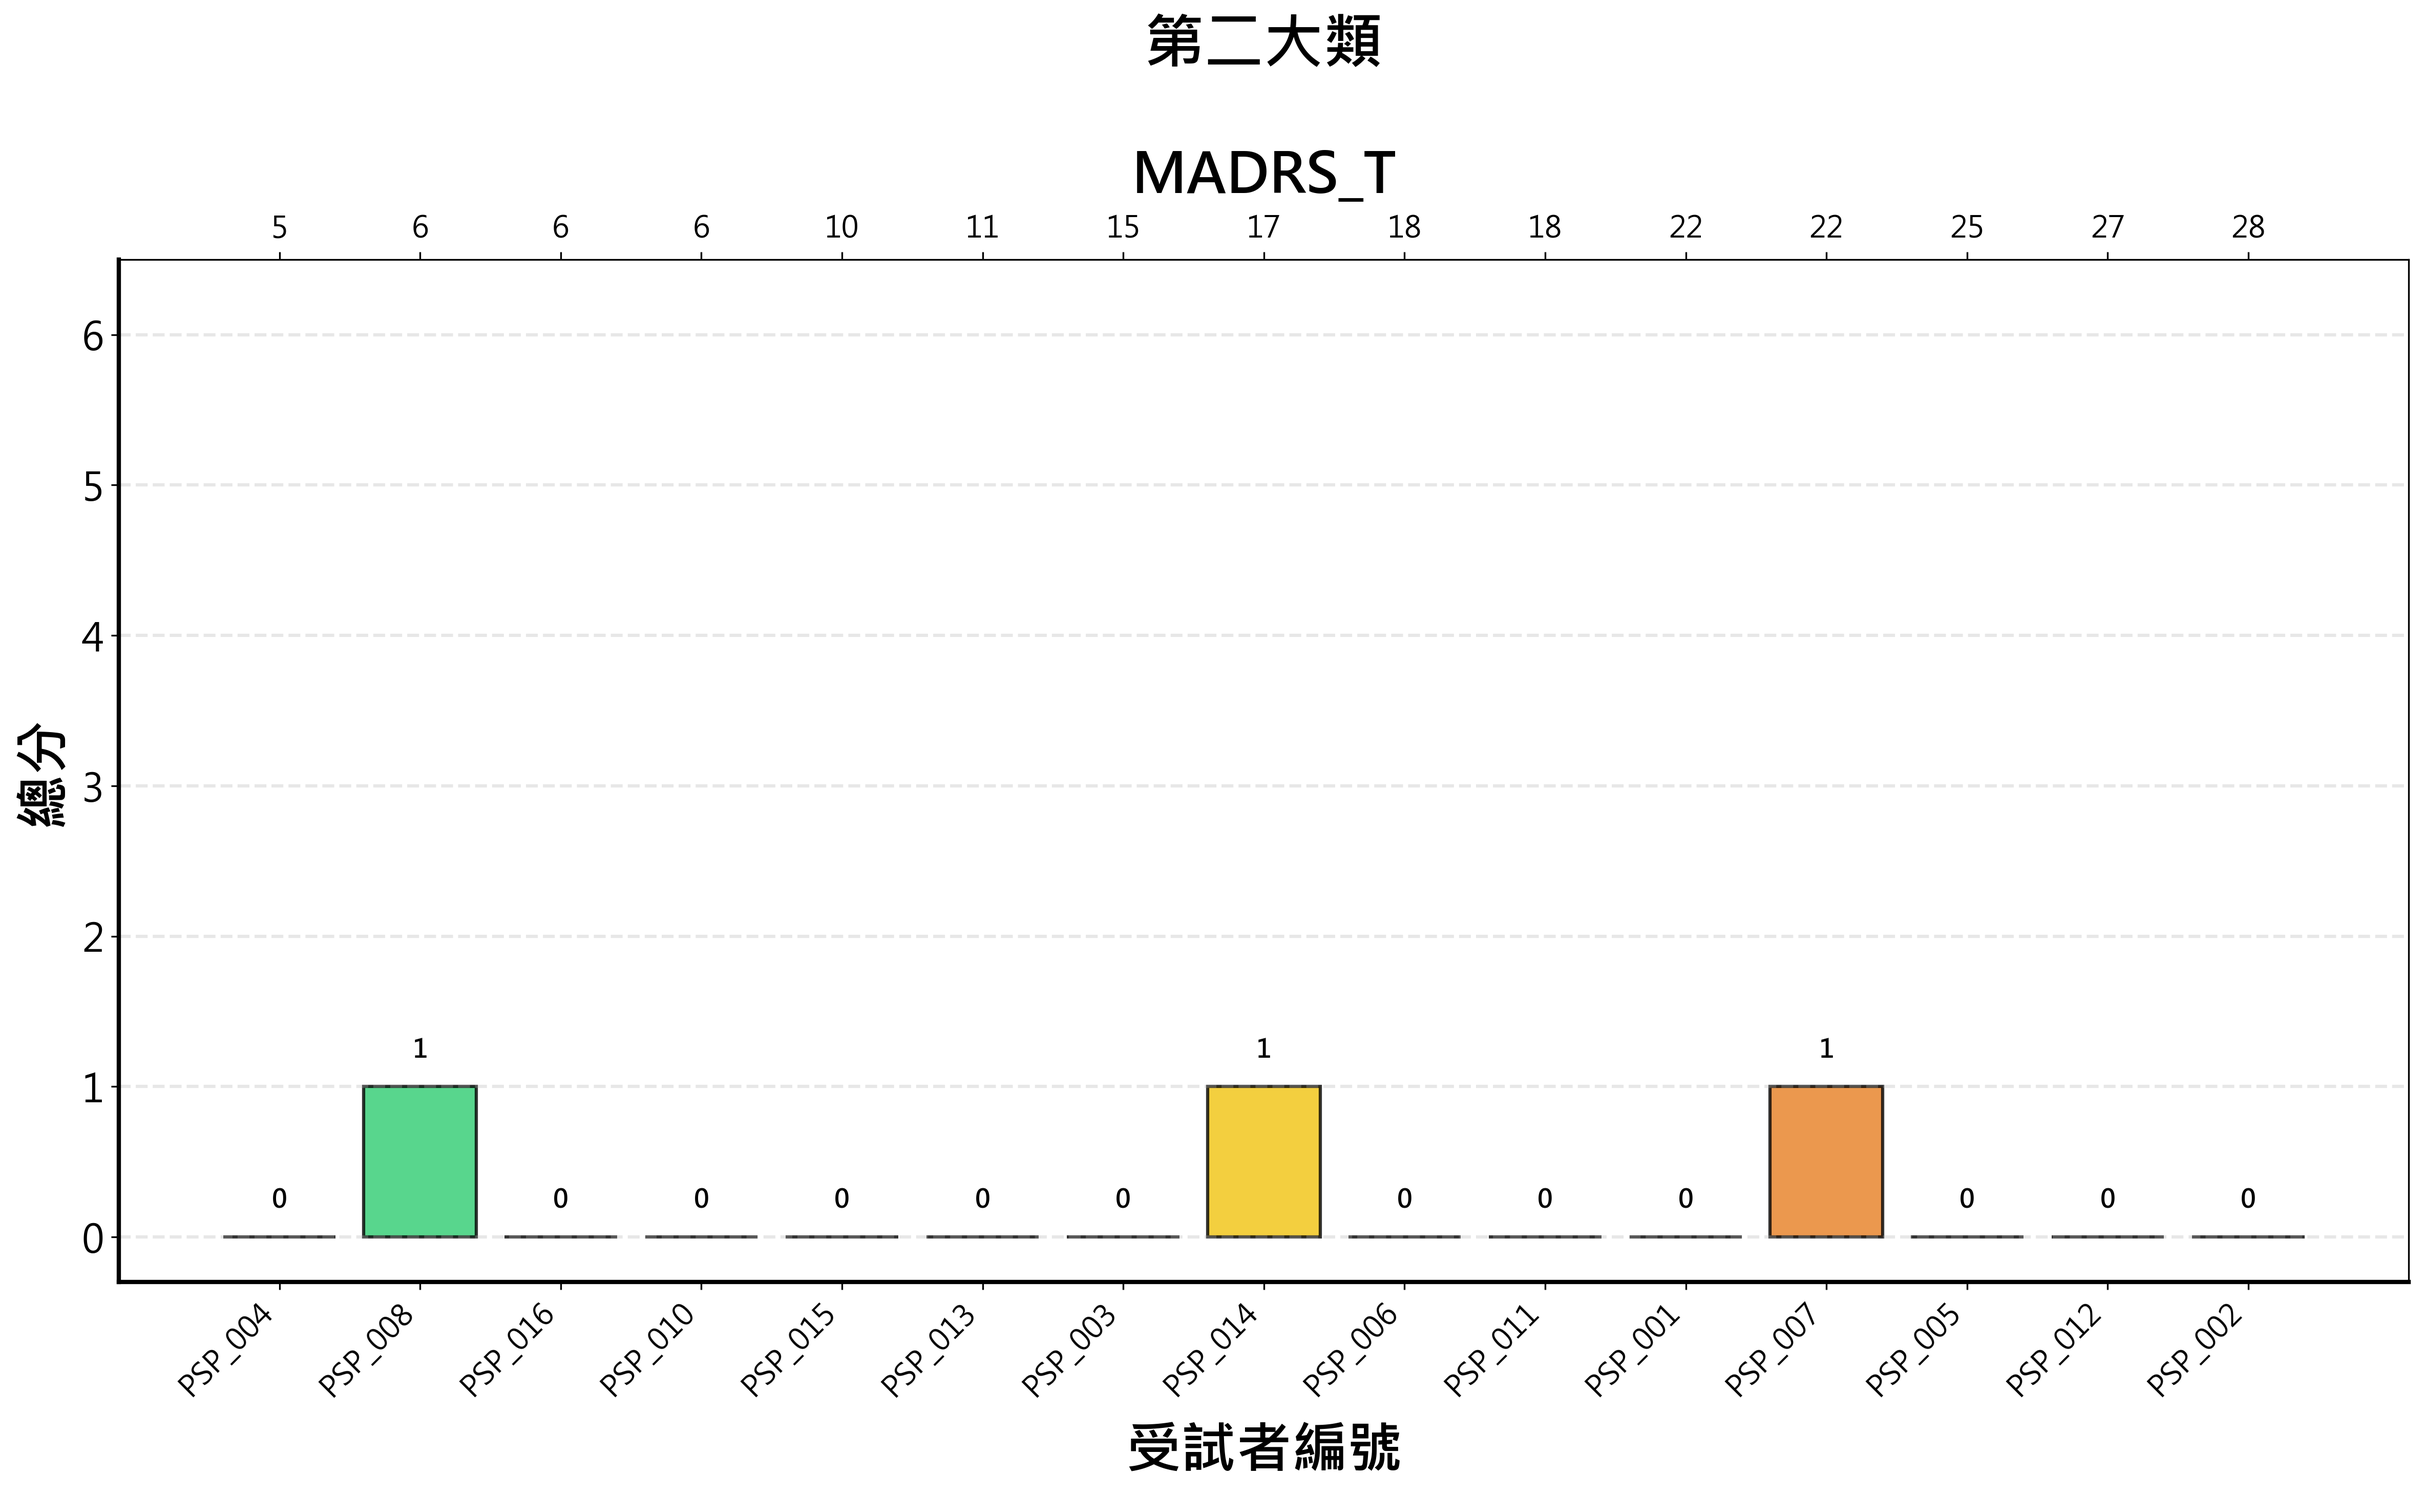
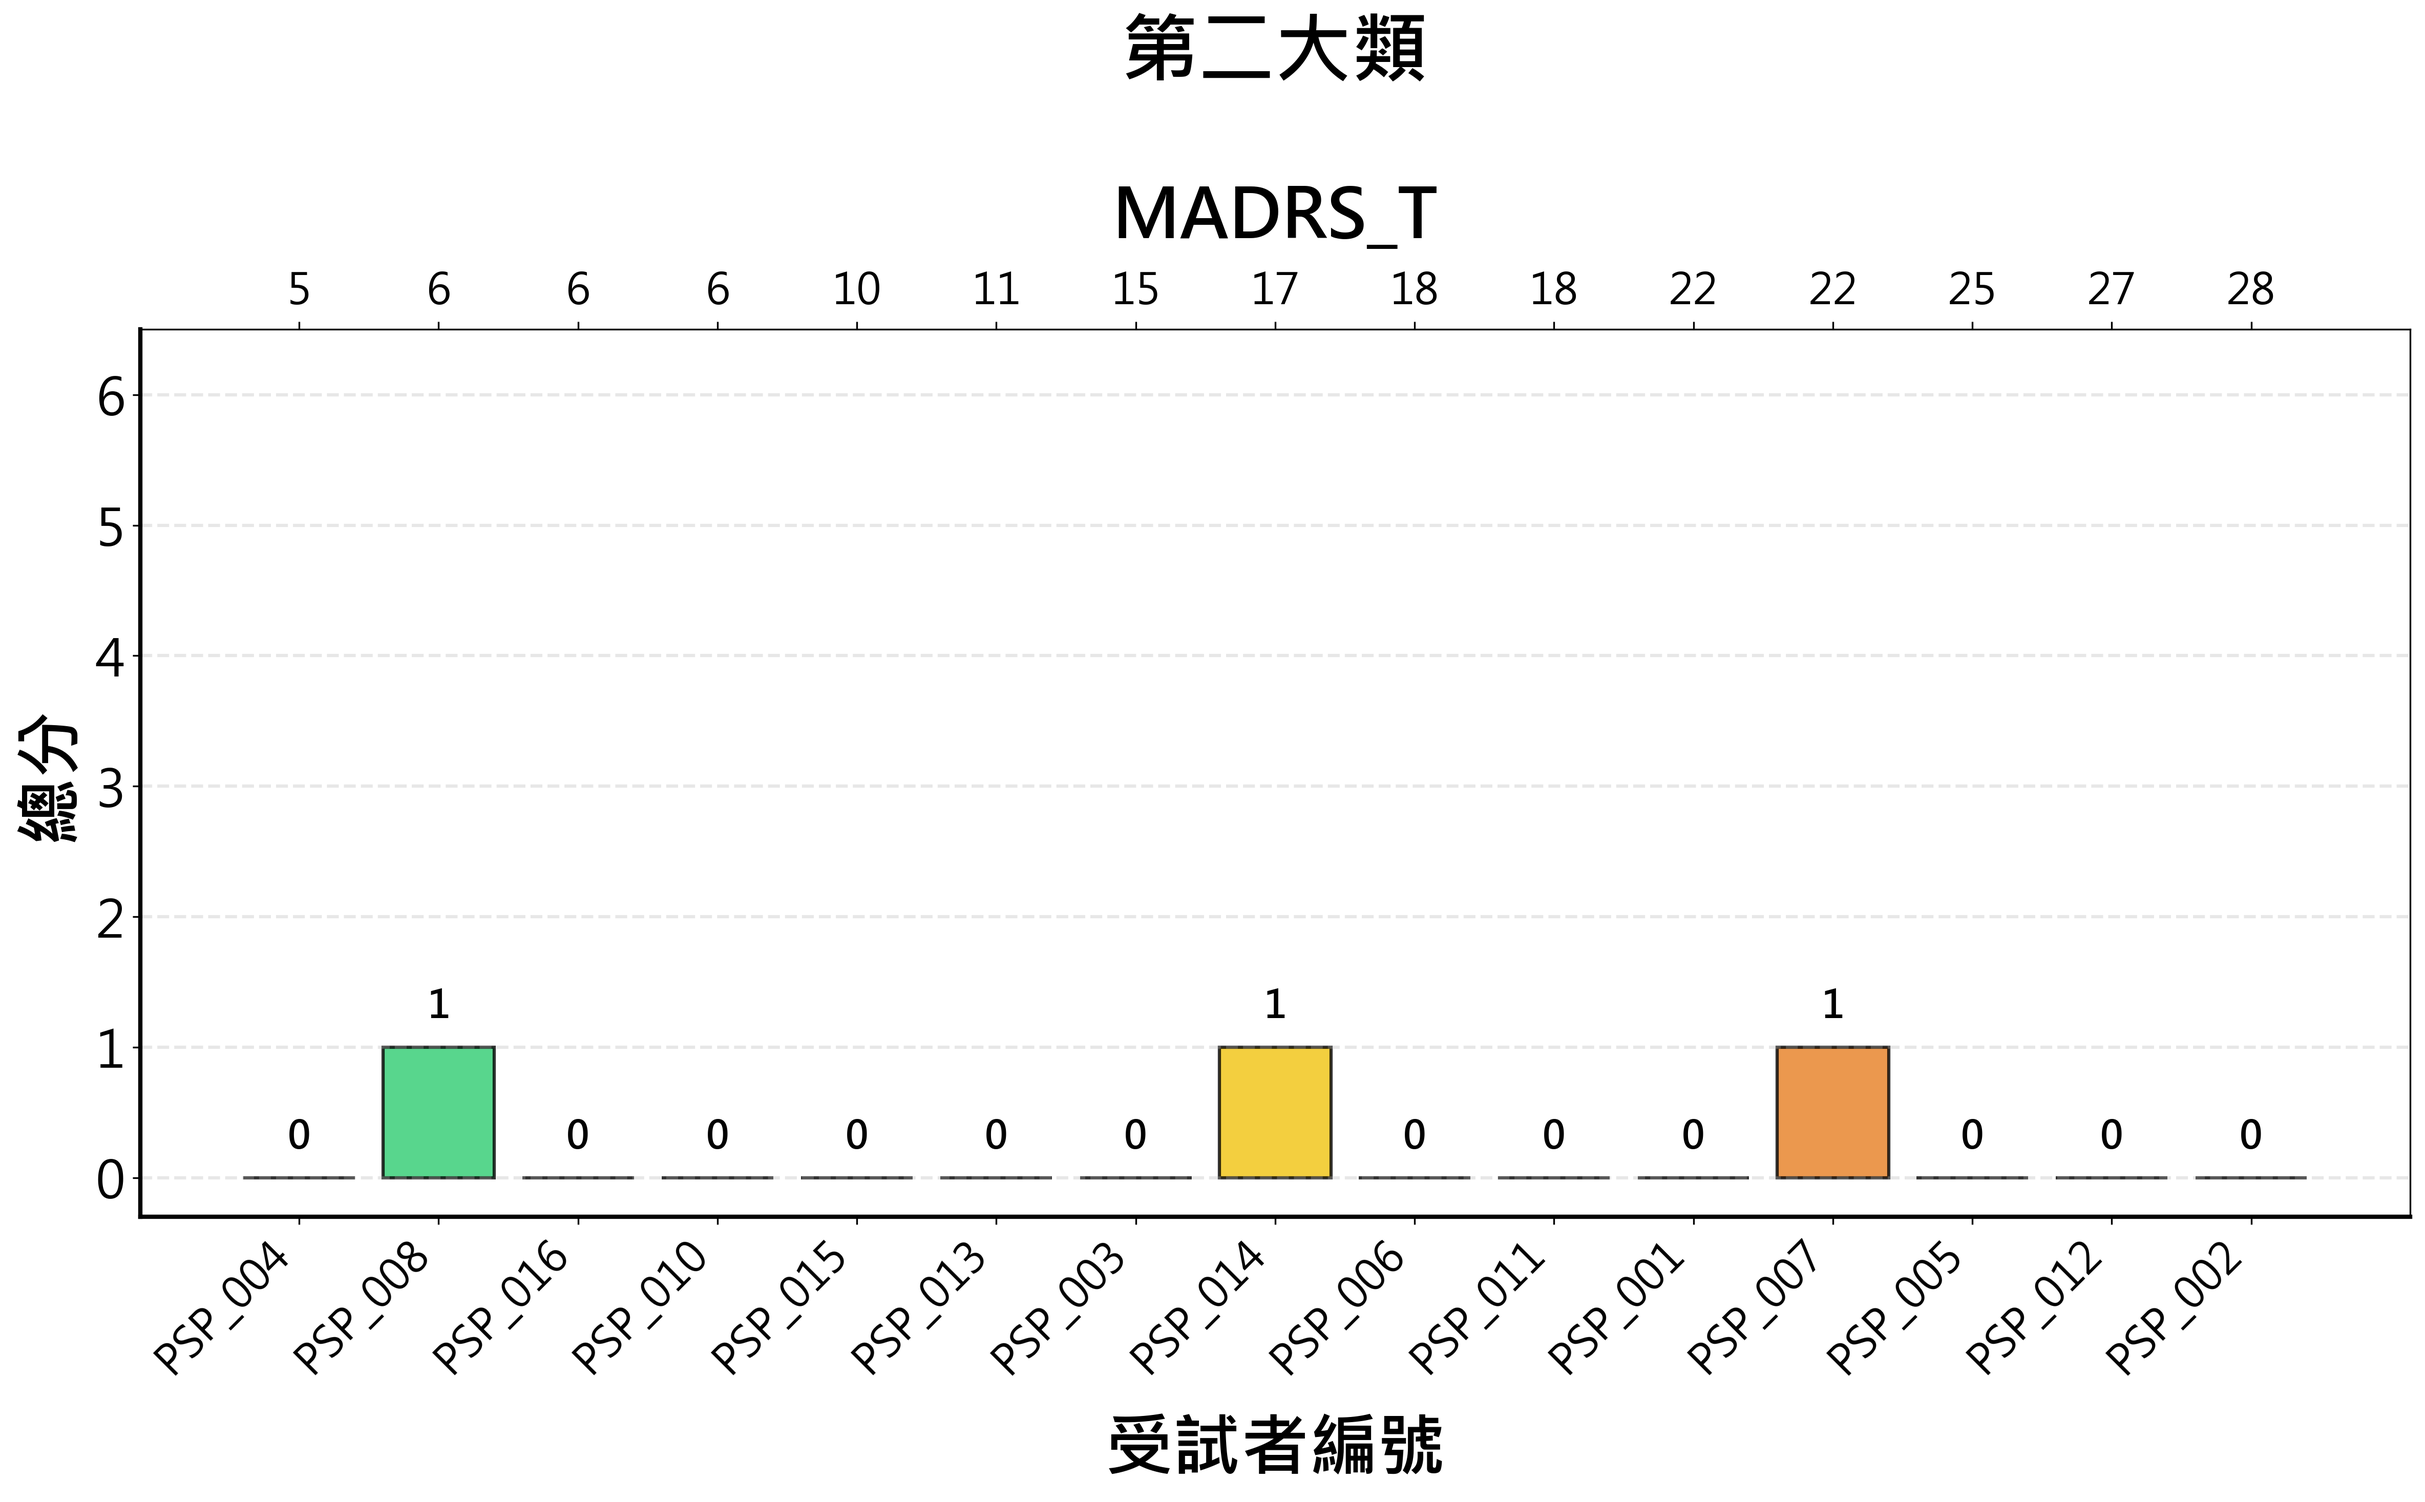
modified pilot_DAP_corr.py

diff --git a/feat_quant/pilot_DAP_corr.py b/feat_quant/pilot_DAP_corr.py
@@ -167,10 +167,10 @@ def create_bar_chart(df, score_col, chart_title, output_filename, show_legend=Fa
         print(f"⚠ {score_col}: 無有效資料")
         return
     
-    # 🆕 創建圖表（加大高度以容納副橫軸）
+    # 創建圖表（加大高度以容納副橫軸）
     fig, ax = plt.subplots(figsize=(16, 10))
     
-    # 🆕 使用位置索引作為 X 軸
+    # 使用位置索引作為 X 軸
     x_positions = np.arange(len(valid_data))
     y_values = valid_data[score_col].values
     subject_ids = valid_data['受試者編號'].values
@@ -182,36 +182,36 @@ def create_bar_chart(df, score_col, chart_title, output_filename, show_legend=Fa
     bars = ax.bar(x_positions, y_values, width=0.8, alpha=0.8, 
                    color=colors, edgecolor='black', linewidth=1.5)
     
-    # 在柱子上方顯示數值
+    # 🆕 在柱子上方顯示數值（放大字體）
     for i, (x, y) in enumerate(zip(x_positions, y_values)):
         ax.text(x, y + 0.15, f'{y:.0f}', ha='center', va='bottom', 
-                fontsize=12, fontweight='bold')
+                fontsize=18, fontweight='bold')  # 🆕 12 → 18
     
-    # 🆕🆕🆕 設定標題和軸標籤
-    ax.set_xlabel('受試者編號', fontsize=26, fontweight='bold', labelpad=10)
-    ax.set_ylabel('總分', fontsize=26, fontweight='bold')  # 🆕 統一改成「總分」
-    ax.set_title(chart_title, fontsize=28, fontweight='bold', pad=40)  # 🆕 使用傳入的標題
+    # 🆕 設定標題和軸標籤（放大字體）
+    ax.set_xlabel('受試者編號', fontsize=32, fontweight='bold', labelpad=15)  # 🆕 26 → 32
+    ax.set_ylabel('總分', fontsize=32, fontweight='bold')  # 🆕 26 → 32
+    ax.set_title(chart_title, fontsize=36, fontweight='bold', pad=50)  # 🆕 28 → 36
     
-    # 🆕🆕🆕 設定主橫軸（受試者編號）
+    # 🆕 設定主橫軸（受試者編號）（放大字體）
     ax.set_xticks(x_positions)
-    ax.set_xticklabels(subject_ids, rotation=45, ha='right', fontsize=14)
+    ax.set_xticklabels(subject_ids, rotation=45, ha='right', fontsize=20)  # 🆕 14 → 20
     
-    # 🆕🆕🆕 設定 Y 軸刻度（統一 0-6）
+    # 設定 Y 軸刻度（統一 0-6）
     ax.set_ylim(-0.3, 6.5)
     ax.set_yticks(range(0, 7))
     
-    # 放大刻度標籤字體
-    ax.tick_params(axis='y', which='major', labelsize=18)
+    # 🆕 放大刻度標籤字體
+    ax.tick_params(axis='y', which='major', labelsize=24)  # 🆕 18 → 24
     
-    # 🆕🆕🆕 添加副橫軸（MADRS_T）
+    # 🆕 添加副橫軸（MADRS_T）（放大字體）
     ax2 = ax.twiny()  # 創建共享 Y 軸的第二個 X 軸
     ax2.set_xlim(ax.get_xlim())
     ax2.set_xticks(x_positions)
-    ax2.set_xticklabels(madrs_scores, fontsize=14)
-    ax2.set_xlabel('MADRS_T', fontsize=26, fontweight='bold', labelpad=10)
-    ax2.tick_params(axis='x', which='major', labelsize=14)
+    ax2.set_xticklabels(madrs_scores, fontsize=20)  # 🆕 14 → 20
+    ax2.set_xlabel('MADRS_T', fontsize=32, fontweight='bold', labelpad=15)  # 🆕 26 → 32
+    ax2.tick_params(axis='x', which='major', labelsize=20)  # 🆕 14 → 20
     
-    # 只在 show_legend=True 時顯示圖例
+    # 🆕 只在 show_legend=True 時顯示圖例（放大字體）
     if show_legend:
         from matplotlib.patches import Patch
         legend_elements = [
@@ -220,7 +220,7 @@ def create_bar_chart(df, score_col, chart_title, output_filename, show_legend=Fa
             Patch(facecolor='#e67e22', edgecolor='black', label='中度 (20-34)'),
             Patch(facecolor='#e74c3c', edgecolor='black', label='重度 (35-60)')
         ]
-        ax.legend(handles=legend_elements, loc='upper left', fontsize=16, framealpha=0.9)
+        ax.legend(handles=legend_elements, loc='upper left', fontsize=20, framealpha=0.9)  # 🆕 16 → 20
     
     # 美化圖表
     ax.grid(True, alpha=0.3, linestyle='--', linewidth=1.5, axis='y')
@@ -318,15 +318,15 @@ def main():
     for x_col, y_col, filename in scatter_plots:
         create_scatter_plot(df, x_col, y_col, filename)
     
-    # 🆕🆕🆕 定義要繪製的柱狀圖（包含圖表標題和是否顯示圖例）
+    # 定義要繪製的柱狀圖（包含圖表標題和是否顯示圖例）
     bar_charts = [
-        ('第一大類總分', '第一大類', 'bar_category1_vs_MADRS.png', True),   # 🆕 顯示圖例
-        ('第二大類總分', '第二大類', 'bar_category2_vs_MADRS.png', False),  # 🆕 不顯示圖例
-        ('第三大類總分', '第三大類', 'bar_category3_vs_MADRS.png', False),  # 🆕 不顯示圖例
-        ('一至三類總分', '三類總分', 'bar_total_vs_MADRS.png', False)       # 🆕 不顯示圖例
+        ('第一大類總分', '第一大類', 'bar_category1_vs_MADRS.png', True),
+        ('第二大類總分', '第二大類', 'bar_category2_vs_MADRS.png', False),
+        ('第三大類總分', '第三大類', 'bar_category3_vs_MADRS.png', False),
+        ('一至三類總分', '三類總分', 'bar_total_vs_MADRS.png', False)
     ]
     
-    # 🆕🆕🆕 繪製柱狀圖（傳入圖表標題）
+    # 繪製柱狀圖（傳入圖表標題）
     print("\n📊 開始繪製柱狀圖...")
     for score_col, chart_title, filename, show_legend in bar_charts:
         create_bar_chart(df_sorted, score_col, chart_title, filename, show_legend=show_legend)
